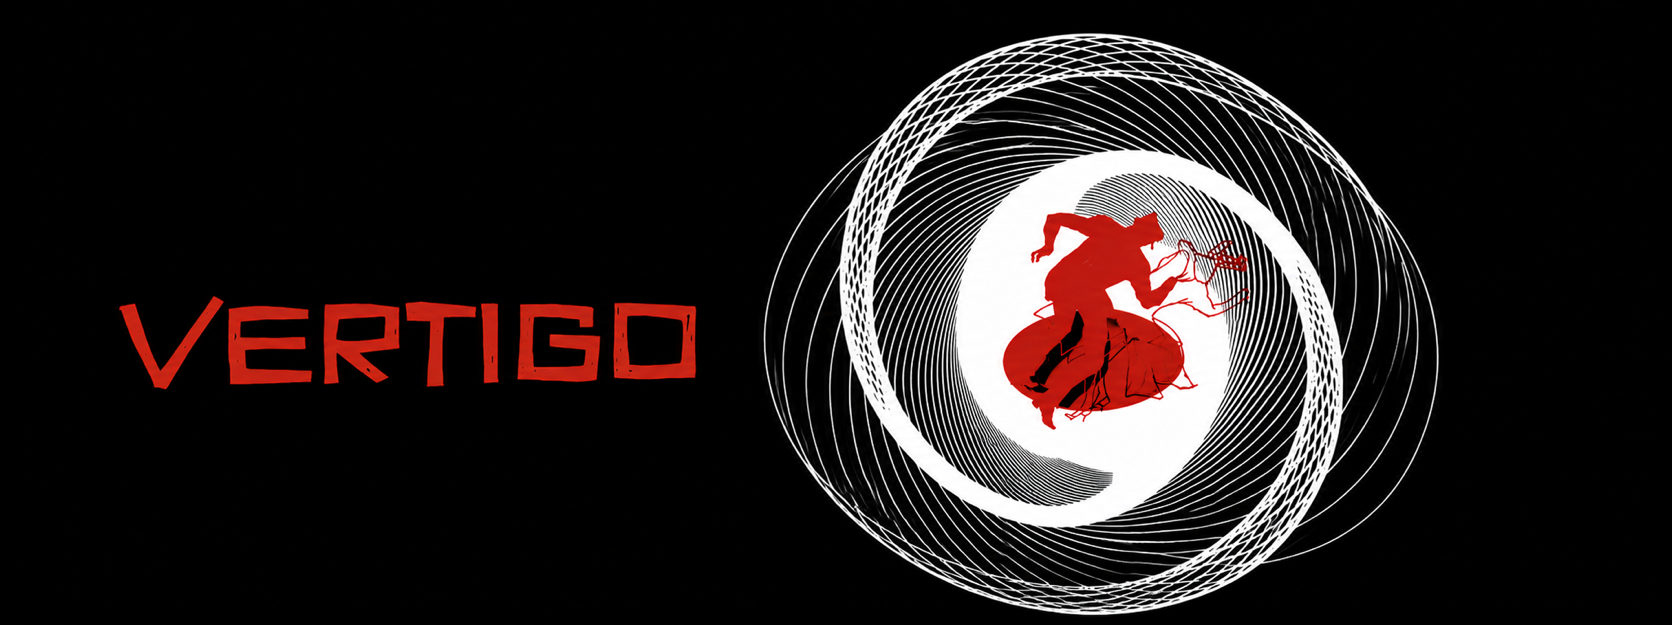
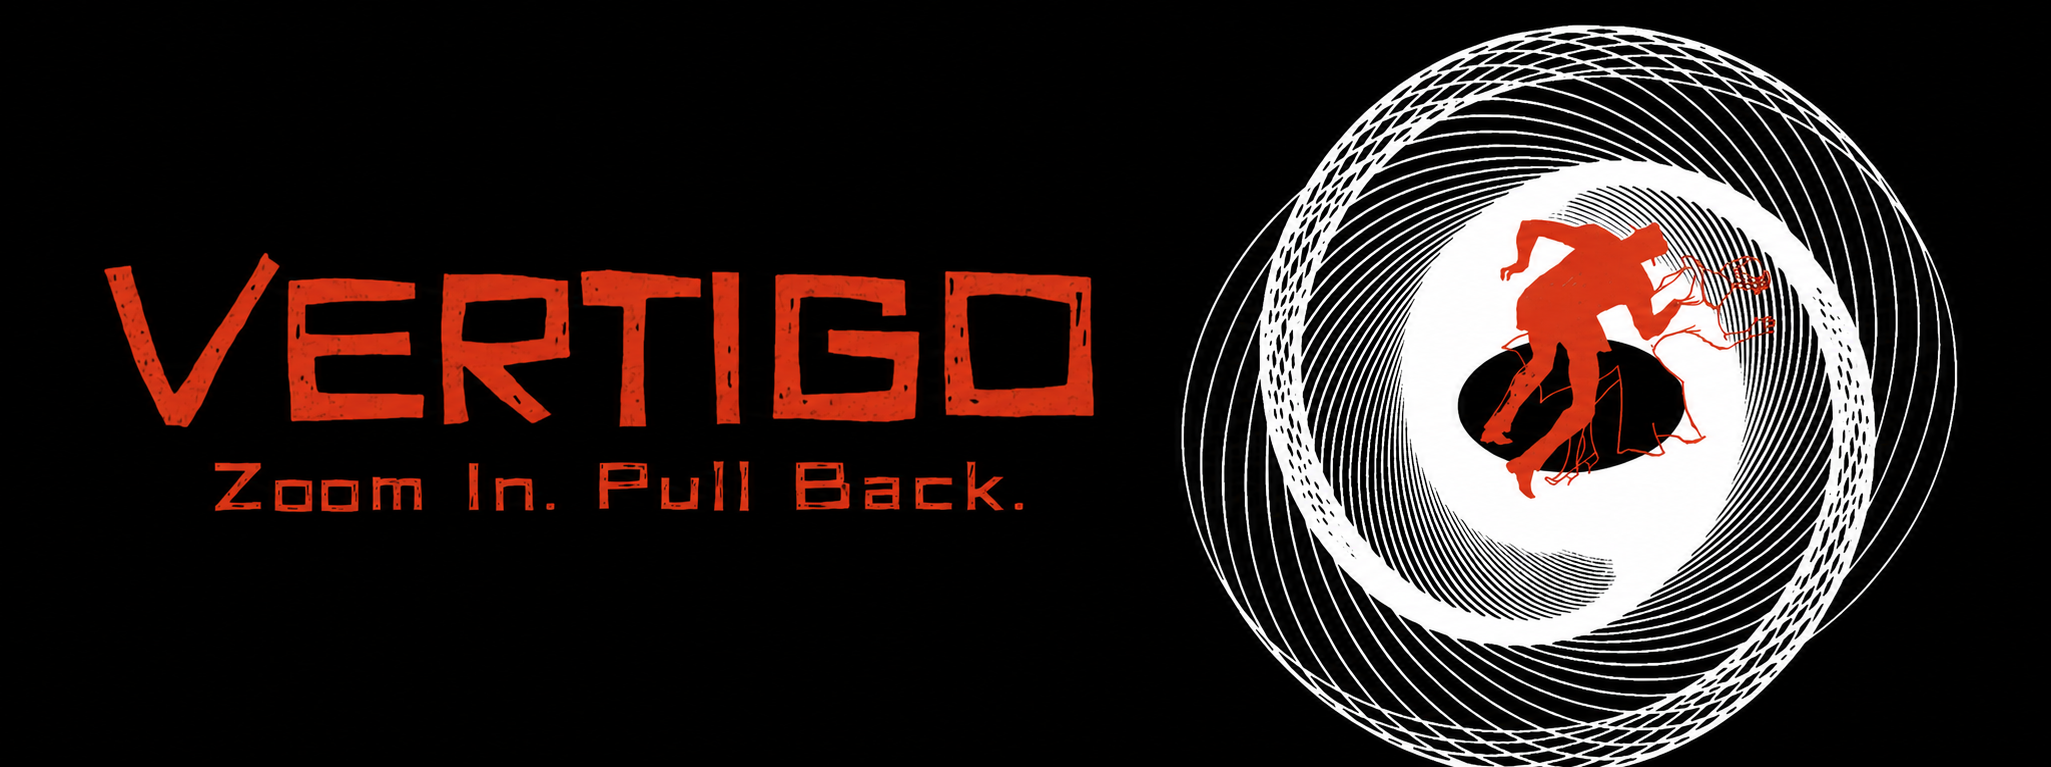
Replace Dolly Zoom teaser

diff --git a/docs/index.html b/docs/index.html
@@ -40,7 +40,7 @@
     <a class="visualization-card" href="https://drive.google.com/file/d/1wQ2iaEX813kKAGonzwIgRop6bit9Utgk/view?usp=sharing" target="_blank" rel="noreferrer"><div class="image-link"><img class="teaser-image" src="./teasers/fourier-series-dark.png?v=20260828-fourier-series" alt="Fourier Series teaser"></div><div class="card-copy"><div><p class="category">Signal Processing</p><h3>Fourier Series</h3><p class="description">Complicated Shapes. Simple Ingredients.</p></div></div></a>
     <a class="visualization-card" href="https://drive.google.com/file/d/1BNJAcvfXrMaTG_1M5yJ4OVxMfasgMo_T/view?usp=sharing" target="_blank" rel="noreferrer"><div class="image-link"><img class="teaser-image" src="./teasers/taylor-series-approximation-dark.png?v=20260827-taylor-series" alt="Taylor Series Approximation teaser"></div><div class="card-copy"><div><p class="category">Calculus</p><h3>Taylor Series Approximation</h3><p class="description">Local Insight. Global Impact.</p></div></div></a>
     <a class="visualization-card" href="https://csprofkgd.github.io/global-vs-rolling-shutter/" target="_blank" rel="noreferrer"><div class="image-link"><img class="teaser-image" src="./teasers/global-vs-rolling-shutter-dark.png?v=20260829-global-vs-rolling-shutter" alt="Global vs. Rolling Shutter teaser"></div><div class="card-copy"><div><p class="category">Computational Photography</p><h3>Global vs. Rolling Shutter</h3><p class="description">One Frame. Many Moments.</p></div></div></a>
-    <a class="visualization-card" href="https://csprofkgd.github.io/dolly-zoom/" target="_blank" rel="noreferrer"><div class="image-link"><img class="teaser-image" src="./teasers/dolly-zoom-dark.png?v=20260831-dolly-zoom" alt="Dolly Zoom teaser"></div><div class="card-copy"><div><p class="category">Computational Photography</p><h3>Dolly Zoom</h3><p class="description">Zoom In. Pull Back.</p></div></div></a>
+    <a class="visualization-card" href="https://csprofkgd.github.io/dolly-zoom/" target="_blank" rel="noreferrer"><div class="image-link"><img class="teaser-image" src="./teasers/dolly-zoom-dark.png?v=20260831-dolly-zoom-black" alt="Dolly Zoom teaser"></div><div class="card-copy"><div><p class="category">Computational Photography</p><h3>Dolly Zoom</h3><p class="description">Zoom In. Pull Back.</p></div></div></a>
   </section>
   <section class="instructor-section" aria-label="About Kosta Derpanis"><aside class="instructor-card"><img class="instructor-portrait" src="./KGD-profile.png" alt="Illustrated portrait of Kosta Derpanis"><div class="instructor-copy"><p class="instructor-label">Your Tour Guide</p><h2>Kosta Derpanis</h2><p>Associate Professor<br>York University</p><div class="instructor-links"><a href="https://csprofkgd.github.io" target="_blank" rel="noreferrer" aria-label="Homepage">⌂</a><a href="mailto:kosta@yorku.ca" aria-label="Email">✉</a><a href="https://x.com/CSProfKGD" target="_blank" rel="noreferrer" aria-label="X">𝕏</a><a href="https://www.linkedin.com/in/kosta-derpanis-a07824122/" target="_blank" rel="noreferrer" aria-label="LinkedIn">in</a></div></div></aside></section>
   <footer><p class="copyright">© 2026 Konstantinos (Kosta) Derpanis</p></footer>

diff --git a/app/page.tsx b/app/page.tsx
@@ -151,7 +151,7 @@ const visualizations: Visualization[] = [
   },
 ];
 
-const TEASER_ASSET_VERSION = "20260831-dolly-zoom";
+const TEASER_ASSET_VERSION = "20260831-dolly-zoom-black";
 
 export default function Home() {
   const [theme, setTheme] = useState<Theme>("dark");

diff --git a/context.md b/context.md
@@ -92,3 +92,8 @@ Updated: 2026-08-31
 ## 2026-08-31 rolling shutter category refinement
 
 - `Global vs. Rolling Shutter` is categorized as `Computational Photography` in both the React source and the static GitHub Pages build.
+
+## 2026-08-31 Dolly Zoom teaser replacement
+
+- The final accepted Dolly Zoom/Vertigo teaser is the supplied black-background artwork with red `VERTIGO` title and `Zoom In. Pull Back.` subtitle.
+- The source is preserved as the Dolly Zoom master, normalized to the shared `1672×625` teaser canvas, and used byte-identically in light and dark modes.
